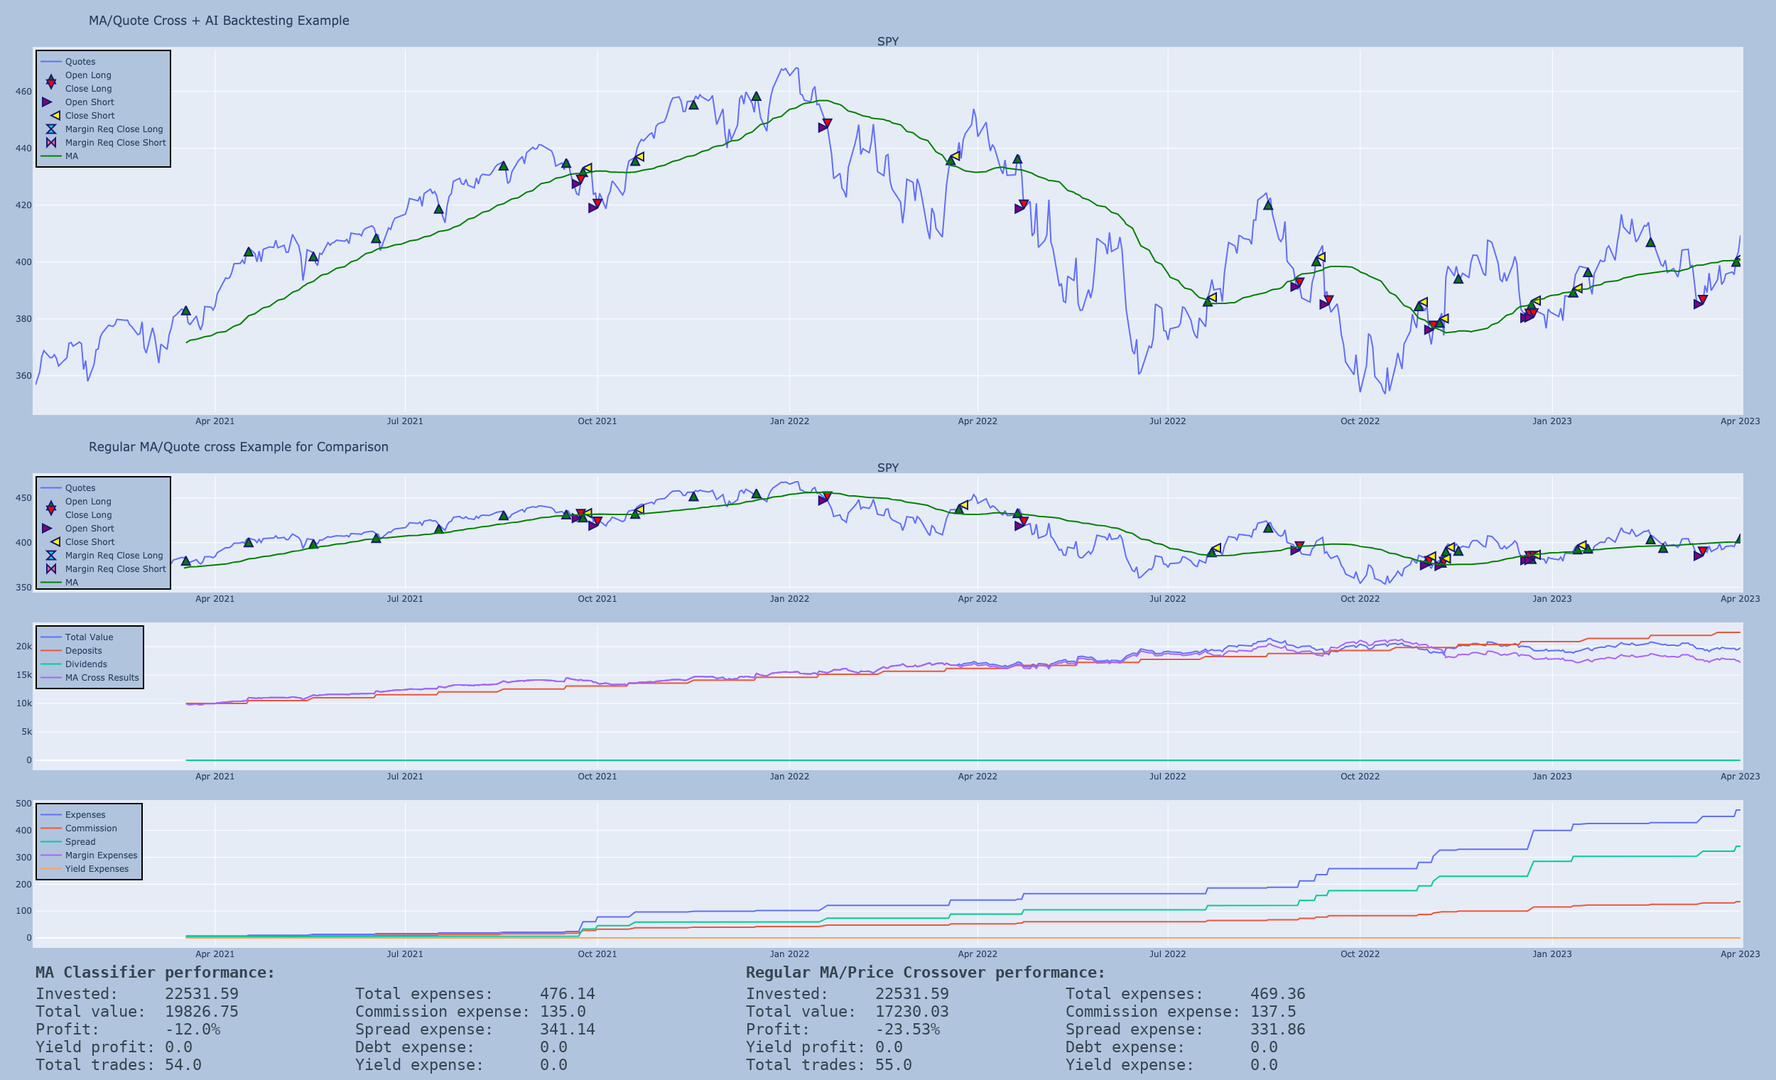
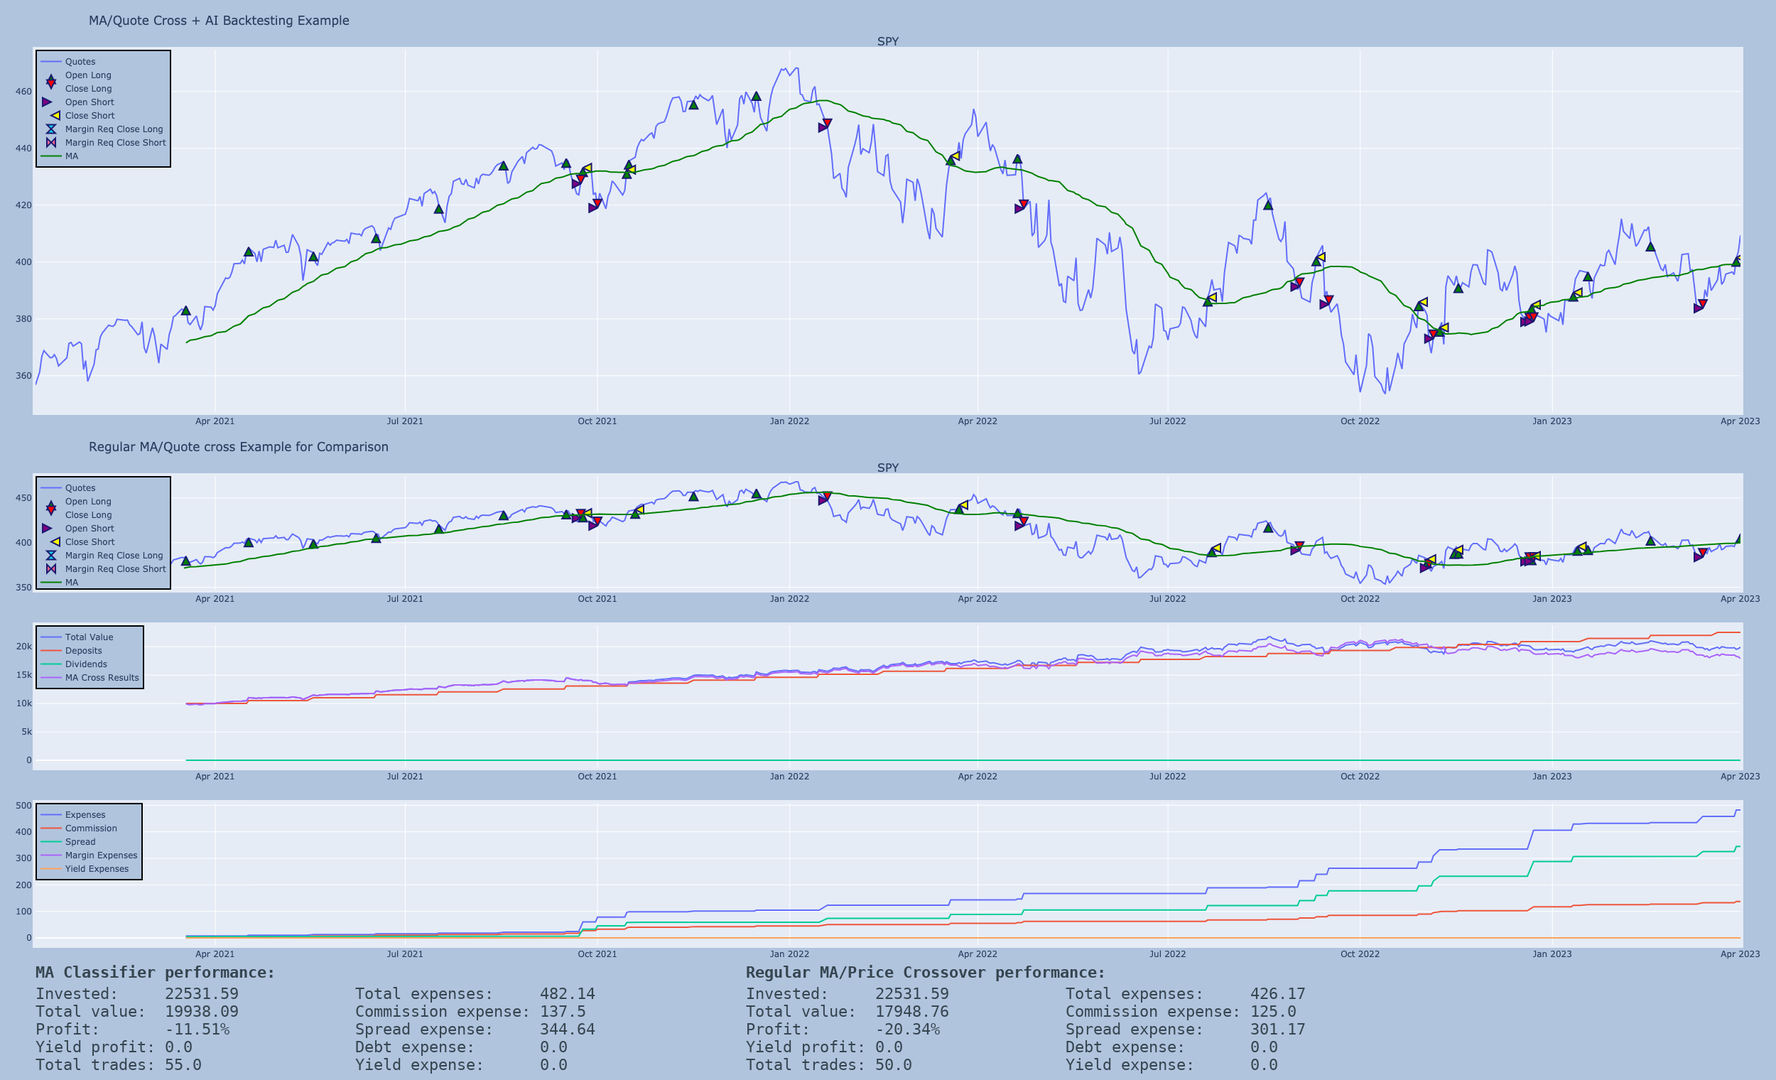
Readme alteration and quickstart examples development

diff --git a/quickstart/min_data_management.py b/quickstart/min_data_management.py
@@ -1,0 +1,55 @@
+"""Minimalistic demonstration of data management.
+
+The author is Zmicier Gotowka
+
+Distributed under Fcore License 1.1 (see license.md)
+"""
+# Edit settings.py to add your API keys for data sources. Free API keys are sufficient for this example.
+from data import av, fh, yf, polygon  # API wrappers for popular data sources (please note that they are unofficial)
+
+from data.fvalues import Timespans
+
+from datetime import datetime, timedelta
+import pytz
+
+# This example checks if there is at least 565 dayly quotes for SPY in the database and if no
+# then it fetches it from Yahoo Finance. DB connection will be estables automatically (if needed).
+yf.YF(symbol='SPY', first_date="2021-1-2", last_date="2023-4-1").fetch_if_none(565)
+
+# Fetch last week of minute SPY quotes from Polygon
+now = datetime.now().replace(tzinfo=pytz.utc)
+then = datetime.now().replace(tzinfo=pytz.utc) - timedelta(days=7)
+pvi = polygon.Polygon(symbol='SPY', first_date=then, last_date=now, timespan=Timespans.Minute)
+
+p_quotes = pvi.fetch_quotes()  # Fetch quotes but do not add them to DB
+
+pvi.db_connect()
+before, after = pvi.add_quotes(p_quotes)  # Add quotes to DB
+pvi.db_close()
+
+print(f"Total quotes num before and after the operation (it won't increase if quotes already present in DB): {before}, {after}")
+
+# Fetch quotes and fundamental data from AlphaVantage. Please note that the free key allows 5 API calls per minute.
+avi = av.AVStock(symbol='IBM')
+avi.compact = False  # Request all awailable quotes data for IBM
+
+avi.fetch_if_none(15423)  # Fetch quotes and add it to DB
+
+# Fetch fundamental data and add it to DB
+avi.fetch_earnings_if_none(109)
+avi.fetch_cash_flow_if_none(25)
+avi.fetch_balance_sheet_if_none(25)
+avi.fetch_income_statement_if_none(25)
+
+# Get quotes from DB along with some fundamental data
+avi.db_connect()
+rows = avi.get_quotes(queries=[('earnings', 'reported_date'), ('earnings', 'reported_eps'), ('cash_flow', 'operating_cashflow')])
+avi.db_close()
+
+# Print last rows of requested data
+print(f"\nThe last row of obtaines quotes and fundamental data for IBM:\n{dict(rows[-1])}")
+
+# Get the latest quote from Finnhub for AAPL (responce described in fvalues.Quotes)
+aapl_data = fh.FHStock(symbol='AAPL').get_recent_data()
+
+print(f"\nRecent quote data for AAPL: {aapl_data}")

diff --git a/data/av.py b/data/av.py
@@ -227,13 +227,16 @@ class AVStock(stock.StockFetcher):
         reports['fiscalDateEnding'] = reports['fiscalDateEnding'].apply(get_dt)
         reports['fiscalDateEnding'] = reports['fiscalDateEnding'].apply(lambda x: int(datetime.timestamp(x)))
 
-        # Add reporting date from earnings data
-        # TODO LOW make it shorter (using map, for example)
-        adj_earnings = self.earnings[self.earnings['fiscalDateEnding'] >= reports['fiscalDateEnding'].iloc[0]]
+        # Align data in both reports
+        adj_earnings = self.earnings[self.earnings['fiscalDateEnding'].isin(reports['fiscalDateEnding'])]
         adj_earnings = adj_earnings.reset_index(drop=True)
 
-        reports['reportedDate'] = np.where(reports['fiscalDateEnding'].equals(adj_earnings['fiscalDateEnding']), \
-            adj_earnings['reportedDate'], None)
+        # Add reporting date from earnings
+        try:
+            reports['reportedDate'] = np.where(reports['fiscalDateEnding'].equals(adj_earnings['fiscalDateEnding']), \
+                adj_earnings['reportedDate'], None)
+        except ValueError as e:
+            raise FdataError(f"Can't align dates of reports: {e}") from e
 
         # Replace AV "None" to SQL 'NULL'
         reports = reports.replace(['None'], 'NULL')

diff --git a/quickstart/min_growth_probability.py b/quickstart/min_growth_probability.py
@@ -77,8 +77,11 @@ prob = Probability(period_long=period_long,
                    period_short=period_short,
                    rows=rows_test,
                    data_to_learn=[rows_learn],
-                   true_ratio=0.004,
-                   cycle_num=2,
+                   true_ratio=0.004,  # Ratio when signal is considered as true in cycle_num.
+                                      # For example, if true_ratio is 0.03 and cycle_num is 5,
+                                      # then the signal will be considered as true if there was a 3% change in
+                                      # quote in the following 5 cycles after getting the signal.
+                   cycle_num=2,  # Nuber of cycles to reach true_ratio to consider the signal as true.
                    algorithm=Algorithm.KNC)
 
 prob.learn()
@@ -97,5 +100,5 @@ fig.add_trace(go.Scatter(x=df['dt'], y=df['ma-short'], name="Short MA"), seconda
 # Add probabilities chart
 fig.add_trace(go.Scatter(x=df['dt'], y=df['buy-prob'], fill='tozeroy', name="Growth Probability"), row=2, col=1)
 
-update_layout(fig, f"Probabilities example chart", len(rows_test))
+update_layout(fig, f"Probabilities Example Chart", len(rows_test))
 show_image(fig)

diff --git a/quickstart/min_ma_classification.py b/quickstart/min_ma_classification.py
@@ -33,7 +33,7 @@ rows_test, length_test = YF(symbol='SPY', first_date="2021-1-2", last_date="2023
 classifier = MAClassifier(period=period,  # SMA Period
                           data_to_learn=[rows_learn],  # Raw quote data to train the model
                           true_ratio=0.004,  # Ratio when signal is considered as true in cycle_num.
-                                             # For example, if  true_ratio is 0.03 and cycle_num is 5,
+                                             # For example, if true_ratio is 0.03 and cycle_num is 5,
                                              # then the signal will be considered as true if there was a 3% change in
                                              # quote in the following 5 cycles after getting the signal.
                           cycle_num=2,  # Nuber of cycles to reach true_ratio to consider the signal as true.
@@ -97,4 +97,4 @@ report.add_annotations(title="MA Classifier performance:")
 report.add_annotations(data=results_cmp, title="Regular MA/Price Crossover performance:")
 
 # Show image
-new_file = report.show_image()
+report.show_image()

diff --git a/readme.md b/readme.md
@@ -1,27 +1,193 @@
-# Fcore is an AI framework for financial markets backtesting and screening.
+# Fcore Is an AI Framework for Financial Markets Backtesting and Screening.
 
 ### **Fcore** is based on the following principles:
 - AI is becoming the essential (and hardly avoidable) part of a financial markets analysis.
 - For successful AI-appliances, we need a lot of data and the data should be well structurized and quickly accessible.
-- Analysing financial markets has a lot of common features. That is why a data analyzing API should be used to reduce a routine work.
+- Market analyzing API should be used to reduce a routine work.
 - All data processing techniques should be treated equally and follow the same interface.
 - Backtesting is treated as an another AI metric and it should be very sensitive to a 'minor' details.
 
-### Based on these principles (and not only), **Fcore** is capable of:
-- Obtaining data from various sources (AlphaVantage, Polygon, Yahoo Finance, Finnhub) and storing it in an unified way without any need to worry about parsing data, altering the results and so on. Currently around 100 data parameters are supported. If you need an additional source, API allows to quickly write an extension to obtain and parse the required data.
-- Providing an API to ease the development of AI-strategies for financial markets analysis. The main focus is on these approaches: classifying strategy signals or security growth/decline forecast as True/False with optional probabilities calculation (already implemented) and estimation of the future prices as a regression problem (partially implemented as LSTM-demo).
-- Utilizing the power of the 'classical' technical and fundamental analyses combined with the modern AI-approach. As there is no difference in data processing techniques, data provided by AI may treated as a custom 'AI-indicator'.
-- Providing its own backtesting engine which takes into account a lot of expenses related to an actual trade/investment. It handles various margin-specific fees and inflation as well. Obtained results must be very close to actual results which you could get on a real market using the analysed strategy.
-- Using multiple financial securities in one backtesting or real time screening strategy (sure, single instument strategies are available as well).
-- Providing API for reporting.
+### Based on these principles, **Fcore**:
+- Can obtain data from various sources (AlphaVantage, Polygon, Yahoo Finance, Finnhub) and storie it in an unified way without any need to worry about parsing data, altering the results and so on. Currently around 100 data parameters are supported. If you need an additional source, API allows to quickly write an extension to obtain the required data.
+- Provides an API to ease the development of AI-strategies for financial markets analysis. The main focus is on classifying various market signals (already implemented) and estimation of the future prices as a regression problem (partially implemented as LSTM-demo).
+- Utilizes the power of the 'classical' technical and fundamental analyses combined with the modern AI-approach. As there is no difference in data processing techniques, data provided by AI may treated as a custom 'AI-indicator'.
+- Provides its own backtesting engine which takes into account a lot of expenses related to an actual trade/investment. It handles various margin-specific fees and inflation as well. Obtained results must be very close to actual results which you could get on a real market using the analysed strategy.
+- Can use multiple financial securities in one backtesting or real time screening strategy (sure, single instument strategies are available as well).
+- Has an API for reporting.
 
-These features allow you to develop your AI-based market strategies much faster than when using a 'bare'-approach.
+These features allow you to develop your AI-based market strategies much easier and faster than when using a wide-purpose libraries.
 
 Please note that Fcore is a tool which helps you to easily implement and test your own financial strategies but it does not provide any 'out of the box' solutions. Consider all the provided demos as programming examples which help you to implement your own strategies.
 
 # Quick Start
 
-Here is a basic example (within 100 LoC) of 200 day SMA strategy implementation when the signals are distinguished by AI of being true/false.
+## Data Management
+
+Here are some basic examples of how to use Fcore.
+
+The first one is a basic data management example which shows how to use the framework with the popular data sources. Invoke **python -m quickstart.min_data_management** to run the example.
+
+```python
+# Edit settings.py to add your API keys for data sources. Free API keys are sufficient for this example.
+from data import av, fh, yf, polygon  # API wrappers for popular data sources (please note that they are unofficial)
+
+from data.fvalues import Timespans
+
+from datetime import datetime, timedelta
+import pytz
+
+# This example checks if there is at least 565 dayly quotes for SPY in the database and if no
+# then it fetches it from Yahoo Finance. DB connection will be estables automatically (if needed).
+yf.YF(symbol='SPY', first_date="2021-1-2", last_date="2023-4-1").fetch_if_none(565)
+
+# Fetch last week of minute SPY quotes from Polygon
+now = datetime.now().replace(tzinfo=pytz.utc)
+then = datetime.now().replace(tzinfo=pytz.utc) - timedelta(days=7)
+pvi = polygon.Polygon(symbol='SPY', first_date=then, last_date=now, timespan=Timespans.Minute)
+
+p_quotes = pvi.fetch_quotes()  # Fetch quotes but do not add them to DB
+
+pvi.db_connect()
+before, after = pvi.add_quotes(p_quotes)  # Add quotes to DB
+pvi.db_close()
+
+print(f"Total quotes num before and after the operation (it won't increase if quotes already present in DB): {before}, {after}")
+
+# Fetch quotes and fundamental data from AlphaVantage. Please note that the free key allows 5 API calls per minute.
+avi = av.AVStock(symbol='IBM')
+avi.compact = False  # Request all awailable quotes data for IBM
+
+avi.fetch_if_none(15423)  # Fetch quotes and add it to DB
+
+# Fetch fundamental data and add it to DB
+avi.fetch_earnings_if_none(109)
+avi.fetch_cash_flow_if_none(25)
+avi.fetch_balance_sheet_if_none(25)
+avi.fetch_income_statement_if_none(25)
+
+# Get quotes from DB along with some fundamental data
+avi.db_connect()
+rows = avi.get_quotes(queries=[('earnings', 'reported_date'), ('earnings', 'reported_eps'), ('cash_flow', 'operating_cashflow')])
+avi.db_close()
+
+# Print last rows of requested data
+print(f"\nThe last row of obtaines quotes and fundamental data for IBM:\n{dict(rows[-1])}")
+
+# Get the latest quote from Finnhub for AAPL (responce described in fvalues.Quotes)
+aapl_data = fh.FHStock(symbol='AAPL').get_recent_data()
+
+print(f"\nRecent quote data for AAPL: {aapl_data}")
+```
+
+## Growth Probability Estimation
+
+This is another example of how to create your own basic growth probability estimation. Withing ~70 SLOC this tiny script manages the data, creates a tool for security growth estimation and displays the result as a chart. Invoke **python -m quickstart.min_growth_probability** to run the example.
+
+```python
+from tools.classifier import Classifier
+
+from data.fvalues import Quotes, Algorithm
+from data.yf import YF
+from data.futils import update_layout, show_image
+
+import pandas as pd
+import pandas_ta as ta
+
+import plotly.graph_objects as go
+from plotly.subplots import make_subplots
+
+class Probability(Classifier):
+    """Minimalistic growth probability impementation."""
+    def __init__(self, period_long=30, period_short=15, **kwargs):
+        """Initializes minimalistic grows probability instance."""
+        super().__init__(**kwargs)
+
+        self._period_long = period_long  # Long SMA period for growth estimation.
+        self._period_short = period_short  # Short SMA period for growth estimation.
+
+        self._probability = True  # Calculate probabilities in the tool
+        self._classify = False  # No need to perform classification
+        self._use_sell = False  # Sell signals are not used by this tool
+
+    def prepare(self, rows=None):
+        """Prepare the DataFrame for learning/estimation."""
+        df = pd.DataFrame(self._rows) if rows is None else pd.DataFrame(rows)  # Create the dataframe base on provided data
+
+        # Calculate required technical indicators
+        ma_long = ta.sma(df[Quotes.AdjClose], length = self._period_long)  # Long SMA
+        ma_short = ta.sma(df[Quotes.AdjClose], length = self._period_short)  # Short SMA
+        pvo = ta.pvo(df[Quotes.Volume])  # Percentage volume oscillator
+
+        # Prepare data for learning/estimation
+        df['pvo'] = pvo.iloc[:, 0]
+        df['ma-long'] = ma_long
+        df['ma-short'] = ma_short
+        df['quote'] = df[Quotes.AdjClose]
+        df['ma-diff'] = ((ma_long - ma_short) / ma_long)  # Ratio of difference between long and short SMAs
+        df['hilo-diff'] = ((df[Quotes.High] - df[Quotes.Low]) / df[Quotes.High])  # Ratio of difference between High and Low
+
+        self._data_to_est = ['pvo', 'ma-diff', 'hilo-diff']  # Columns to learn/estimate
+        self._data_to_report = self._data_to_est + ['ma-long', 'ma-short', 'quote']  # Columns for reporting
+
+        # Get rid of the values where MA is not calculated because they are useless for learning.
+        return df[self._period_long-1:].reset_index().drop(['index'], axis=1)
+
+    def get_buy_condition(self, df):
+        """Get buy condiiton to check signals."""
+        curr_quote = df[Quotes.AdjClose]
+        next_quote = df[Quotes.AdjClose].shift(-abs(self._cycle_num))
+
+        return (next_quote - curr_quote) / curr_quote >= self._true_ratio
+
+###############
+# Demonstration
+###############
+
+threshold_learn, threshold_test = 5284, 565  # Quotes num thresholds for the learning and testing
+period_long, period_short = (50, 25)  # Periods for SMAs
+
+# Get data for training/testing a model with the number of quotes >= threshold
+# All the data will be cached in a database without the need of further fetching
+rows_learn, length_learn = YF(symbol='SPY', first_date="2000-1-1", last_date="2021-1-1").fetch_if_none(threshold_learn)
+rows_test, length_test = YF(symbol='SPY', first_date="2021-1-2", last_date="2023-4-1").fetch_if_none(threshold_test)
+
+prob = Probability(period_long=period_long,
+                   period_short=period_short,
+                   rows=rows_test,
+                   data_to_learn=[rows_learn],
+                   true_ratio=0.004,  # Ratio when signal is considered as true in cycle_num.
+                                      # For example, if true_ratio is 0.03 and cycle_num is 5,
+                                      # then the signal will be considered as true if there was a 3% change in
+                                      # quote in the following 5 cycles after getting the signal.
+                   cycle_num=2,  # Nuber of cycles to reach true_ratio to consider the signal as true.
+                   algorithm=Algorithm.KNC)
+
+prob.learn()
+prob.calculate()
+df = prob.get_results()
+
+# Buind the report
+fig = make_subplots(rows=2, cols=1, shared_xaxes=True, row_width=[0.3, 0.7],
+                    specs=[[{"secondary_y": False}],
+                            [{"secondary_y": False}]])
+
+fig.add_trace(go.Scatter(x=df['dt'], y=df['quote'], name="AdjClose"), secondary_y=False)
+fig.add_trace(go.Scatter(x=df['dt'], y=df['ma-long'], name="Long MA"), secondary_y=False)
+fig.add_trace(go.Scatter(x=df['dt'], y=df['ma-short'], name="Short MA"), secondary_y=False)
+
+# Add probabilities chart
+fig.add_trace(go.Scatter(x=df['dt'], y=df['buy-prob'], fill='tozeroy', name="Growth Probability"), row=2, col=1)
+
+update_layout(fig, f"Probabilities Example Chart", len(rows_test))
+show_image(fig)
+```
+
+The script will generate a chart with close price and moving averages and also a subchart with growth probabilities at corresponding moments of time:
+![Growth Probability Report](probability.png "Growth Probability Report")
+
+## Classification of Technical Analysis Signals and Backtesting
+
+Using market analysis API provided by Fcore you can easily classify nearly every event which happens on a market. This is an example of '200 Day SMA vs Price' strategy usage when technical analysis signals are distinguished by AI of being true/false. This example also performs a backtest to compare results with and without AI usage on the similar strategy. Invoke **python -m quickstart.min_ma_classification** to run the example.
 
 ```python
 from data.fvalues import Algorithm
@@ -117,47 +283,17 @@ report.add_annotations(title="MA Classifier performance:")
 report.add_annotations(data=results_cmp, title="Regular MA/Price Crossover performance:")
 
 # Show image
-new_file = report.show_image()
+report.show_image()
 ```
-
-This strategy ([backtest/ma_classification.py](backtest/ma_classification.py)) trains a model for MA-Classifier ([tools/ma_classifier.py](tools/ma_classifier.py)) AI tool which uses percentage volume oscillator data to distinguish true/false signals. Please note that in real appliances hundreds of data parameters may be used to train a model. Here we see that AI helped to better distinguish some signals of the strategy and decrease the loses from -23.53% to -12%. To run this strategy with additional metrics output, invoke **python -m demo.backtest.ma_classification_test** (source in [demo/backtest/ma_classification_test.py](demo/backtest/ma_classification_test.py)) Here is the basic quick start example - [quickstart/min_ma_classification.py](quickstart/min_ma_classification.py)
 
 It is the report generated by the script above:
 ![Backtesting Report](report.png "Backtesting Report")
 
-You may fetch/obtain another data (like fundamentals) in the following way:
-```python
-from data import av
-from data.fvalues import Timespans
-
-avi = av.AVStock(symbol='IBM', timespan=Timespans.Day)
-avi.compact = False
-
-quotes = avi.fetch_quotes()
-earnings = avi.fetch_earnings()
-cf = avi.fetch_cash_flow()
-bs = avi.fetch_balance_sheet()
-ins = avi.fetch_income_statement()
-
-avi.db_connect()
-
-before, after = avi.add_quotes(quotes)
-avi.add_earnings(earnings)
-avi.add_cash_flow(cf)
-avi.add_balance_sheet(bs)
-avi.add_income_statement(ins)
-
-rows = avi.get_quotes(queries=[('earnings', 'reported_date'), ('earnings', 'reported_eps'), ('cash_flow', 'operating_cashflow')])
-avi.db_close()
-
-print(dict(rows[-1]))
-
-print(f"Number of quotes in DB before the operation {before}, after {after}")
-```
+Here we see that AI helped to better distinguish some signals of the strategy and decreased the loses from -20.34% to -11.51%.
 
 # Other Examples
 
-The examples above is only a little part of what Fcore is capable. The following examples illustrates the wider usage of the framework.
+The examples above are only a little part of what Fcore is capable. The following examples illustrates the wider usage of the framework.
 
 Use the following command line tools to manage quotes.
 
@@ -189,7 +325,7 @@ Note that the tools and backtesting demos create an image with the result of a c
 
 To keep everything working, please keep all the dependencies up to date. Especially the dependencies which are related to data sources (like yfinance).
 
-Currently the project is in the active development stage and is not promoted anywhere yet. However, if you found it and feel interested, sure you are welcome to observe the development process or contribute to the project. The 'general idea' of the project will remain the same but APIs still may change.
+Currently Fcore is in the active development stage and is not promoted anywhere yet. However, if you found it and feel interested, sure you are welcome to observe the development process or contribute to the project. The 'general idea' of Fcore will remain the same but APIs still may change.
 
 The repository uses two branches: 'main' and 'devel'. The 'main' branch is usually stable but as a verification process is not fully established yet, sometimes bugs may be committed there. The 'devel' branch is used for 'intermediate' development commits and it is not intended to be stable or even working. See TODO's (followed by priority) in the code for what is going to be implemented/fixed in the future.
 
